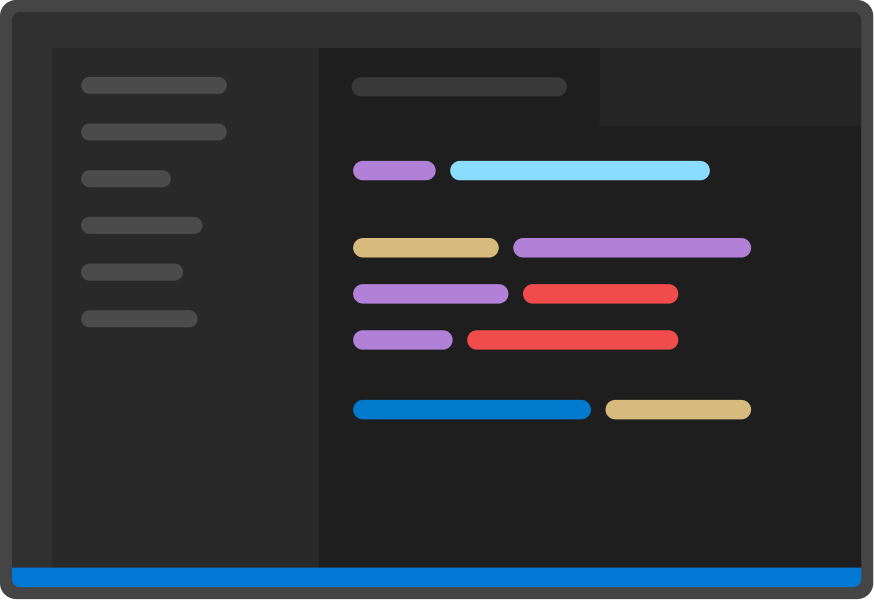
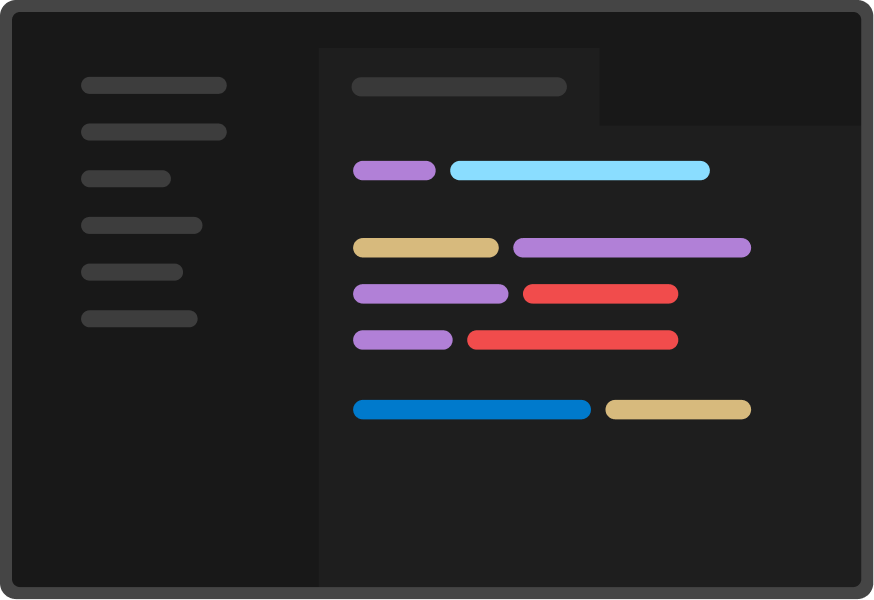
Update getting started theme picker images to reflect new themes (#180976)
* Update getting started theme picker assets to reflect new themes

* Update theme names

Changed region(s): [[0.0, 0.0, 0.9886, 0.99]]

diff --git a/src/vs/workbench/contrib/welcomeGettingStarted/common/media/theme_picker.ts b/src/vs/workbench/contrib/welcomeGettingStarted/common/media/theme_picker.ts
@@ -12,11 +12,11 @@ export default () => `
 	<div class="theme-picker-row">
 		<checkbox when-checked="setTheme:${ThemeSettingDefaults.COLOR_THEME_DARK}" checked-on="config.workbench.colorTheme == '${ThemeSettingDefaults.COLOR_THEME_DARK}'">
 			<img width="200" src="./dark.png"/>
-			${escape(localize('dark', "Dark"))}
+			${escape(localize('dark', "Dark Modern"))}
 		</checkbox>
 		<checkbox when-checked="setTheme:${ThemeSettingDefaults.COLOR_THEME_LIGHT}" checked-on="config.workbench.colorTheme == '${ThemeSettingDefaults.COLOR_THEME_LIGHT}'">
 			<img width="200" src="./light.png"/>
-			${escape(localize('light', "Light"))}
+			${escape(localize('light', "Light Modern"))}
 		</checkbox>
 	</div>
 	<div class="theme-picker-row">
